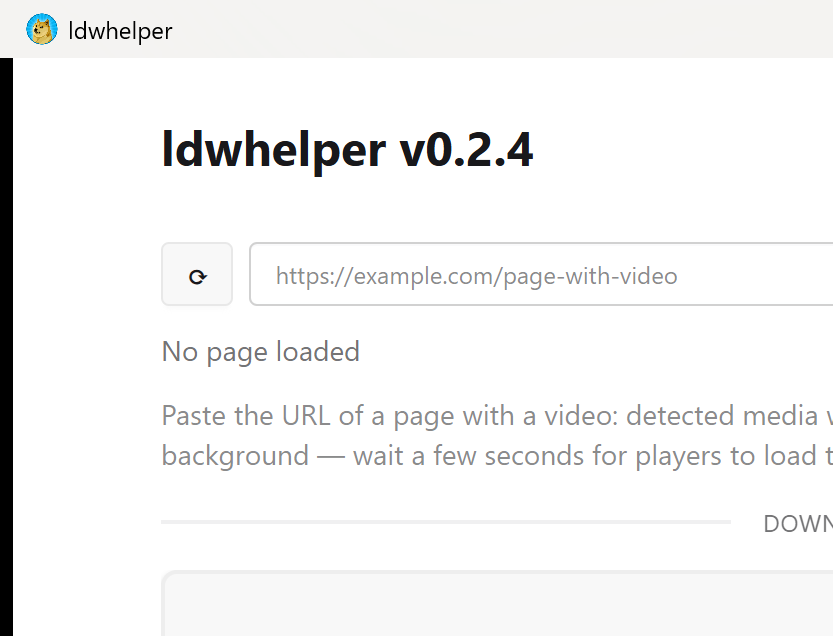
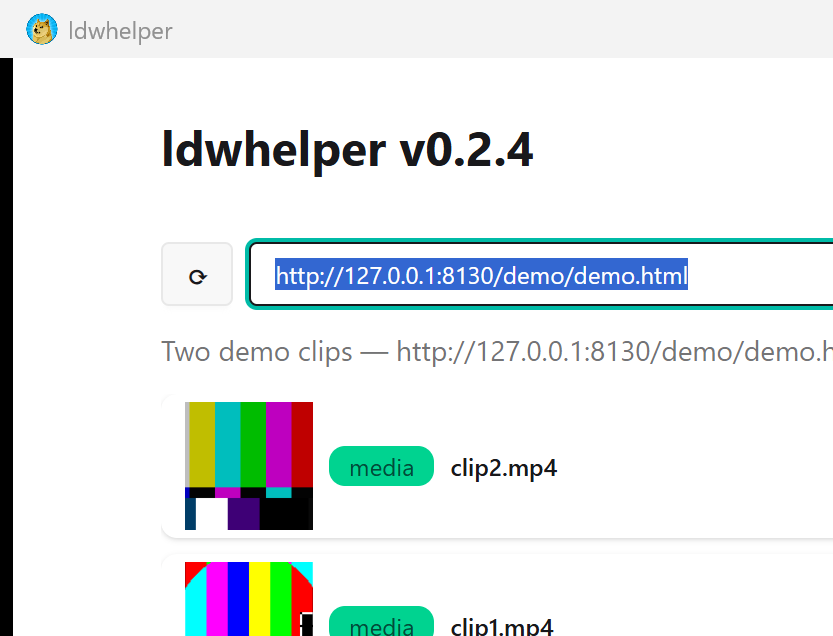
docs: screenshot con download completi + fix build command
- screenshot reale dell'app con due download completati e thumbnail
  (pagina demo locale con video di prova, pilotata via CDP)
- corretto il comando di build: dx build --desktop --release
- link alla pagina del progetto luciopg.github.io/ldwmanager
- residui italiani nell'interfaccia (menu tray, bottoni Scarica e
  filtri dialog) portati all'inglese

diff --git a/src/ui/app.rs b/src/ui/app.rs
@@ -155,7 +155,7 @@ pub fn App() -> Element {
         let menu = trayicon::menu::Menu::new();
         menu.append(&trayicon::menu::MenuItem::with_id(
             "open",
-            "Apri ldwhelper",
+            "Open ldwhelper",
             true,
             None,
         ))
@@ -163,14 +163,14 @@ pub fn App() -> Element {
         menu.append(&trayicon::menu::PredefinedMenuItem::separator())
             .unwrap();
         menu.append(&trayicon::menu::MenuItem::with_id(
-            "quit", "Esci", true, None,
+            "quit", "Exit", true, None,
         ))
         .unwrap();
         let img =
-            image::load_from_memory(include_bytes!("../../assets/icon.ico")).expect("icona tray");
+            image::load_from_memory(include_bytes!("../../assets/icon.ico")).expect("tray icon");
         let rgba = img.to_rgba8();
         let (w, h) = rgba.dimensions();
-        let icon = trayicon::Icon::from_rgba(rgba.into_raw(), w, h).expect("icona tray rgba");
+        let icon = trayicon::Icon::from_rgba(rgba.into_raw(), w, h).expect("tray icon rgba");
         trayicon::init_tray_icon(menu, Some(icon));
     });
 

diff --git a/src/ui/auto_page.rs b/src/ui/auto_page.rs
@@ -126,7 +126,7 @@ pub fn AutoPage(
         spawn(async move {
             let dialog = rfd::AsyncFileDialog::new()
                 .add_filter("MP4", &["mp4"])
-                .add_filter("Tutti i file", &["*"])
+                .add_filter("All files", &["*"])
                 .set_file_name(&suggested);
             if let Some(handle) = dialog.save_file().await
                 && let Some(path) = handle.path().to_str()
@@ -352,7 +352,7 @@ fn CandidateRow(
             button {
                 class: "btn btn-xs btn-primary shrink-0",
                 onclick: move |_| on_download.call(candidate_for_click.clone()),
-                "Scarica"
+                "Download"
             }
         }
     }

diff --git a/src/ui/new_download_dialog.rs b/src/ui/new_download_dialog.rs
@@ -43,7 +43,7 @@ pub fn NewDownloadDialog(
         // Primo filtro = preselezionato dal dialog; "Tutti i file" permette qualsiasi tipo.
         let mut dialog = rfd::AsyncFileDialog::new()
             .add_filter("MP4", &["mp4"])
-            .add_filter("Tutti i file", &["*"]);
+            .add_filter("All files", &["*"]);
         let suggested = filename.read().trim().to_string();
         if !suggested.is_empty() {
             dialog = dialog.set_file_name(&suggested);

diff --git a/README.md b/README.md
@@ -80,8 +80,10 @@ registry changes, a single portable executable.
 To build from source:
 
 ```
-cargo build --release
+dx build --desktop --release
 ```
+
+The bundled executable lands in `target/dx/ldwhelper/release/windows/app/`.
 
 ## Command line
 
@@ -111,5 +113,7 @@ loading after a play event. HLS playlists are handed to a bundled ffmpeg. The UI
 
 **LucioPg** — [luciopg.github.io](https://luciopg.github.io)
 
+Project page: [luciopg.github.io/ldwmanager](https://luciopg.github.io/ldwmanager/)
+
 ---
-<p align="center"><a href="https://luciopg.github.io">luciopg.github.io</a> · <a href="https://github.com/LucioPg/ldwhelper/releases/latest">Download</a> · <a href="https://github.com/LucioPg/ldwhelper/issues">Issues</a></p>
+<p align="center"><a href="https://luciopg.github.io">luciopg.github.io</a> · <a href="https://luciopg.github.io/ldwmanager/">Project page</a> · <a href="https://github.com/LucioPg/ldwhelper/releases/latest">Download</a> · <a href="https://github.com/LucioPg/ldwhelper/issues">Issues</a></p>
